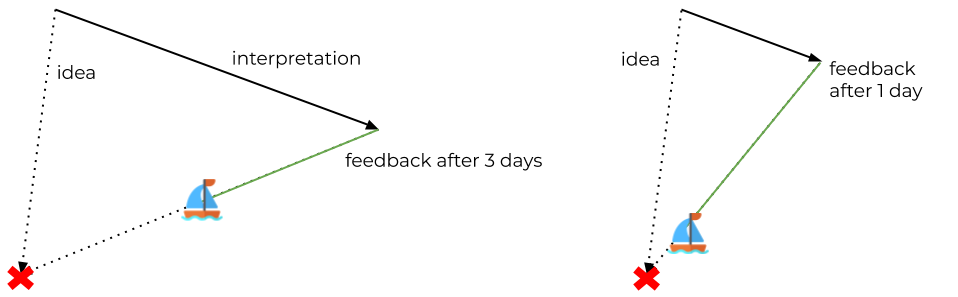
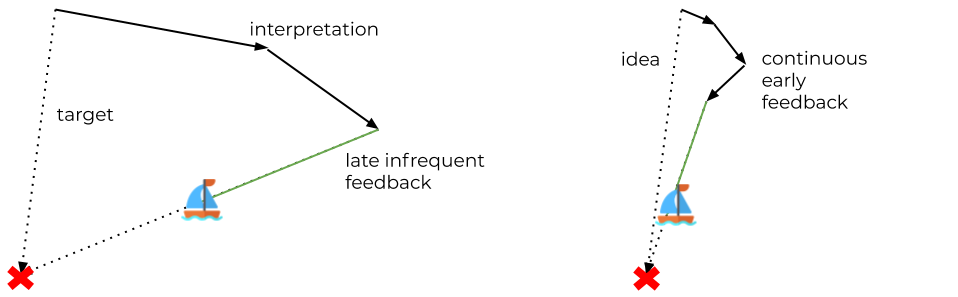
commit 2020_03_09_07_38_PM

diff --git a/index.html b/index.html
@@ -173,18 +173,18 @@
 
 <h1 id="my-opinion-on-successful-development">My Opinion on Successful Development</h1>
 <ul>
-<li>Automate tasks, make tasks foolproof. Relying on humans following processes is a recipe for failure.</li>
+<li>Automate processes. Developers are too valuable to perform repetitive tasks, and are error prone.</li>
 <li>Mistakes are a natural way to learn. Force mistakes to be made in isolation, fail fast, succeed faster.</li>
 <li>Add an automated test before fixing a bug. Only tested software can reliably change.</li>
-<li>Designs should be subject to change whenever software gets complicated, refactoring should become a routine.</li>
-<li>Estimates are <a href="https://www.google.com/search?q=%23noestimates">non-essential</a>. Prioritization over estimation. Beware for commitments to deadlines, it may kill simplicity and quality.</li>
-<li>Agile is a set of <a href="https://agilemanifesto.org/">values</a> and <a href="https://agilemanifesto.org/principles.html">principles</a>. To be agile is to do what works for you (the team). Methodologies, frameworks, or processes are non-essential.</li>
+<li>Designs should be subject to change if implementations get complicated, refactoring should become a routine.</li>
+<li>Estimates are <a href="https://www.google.com/search?q=%23noestimates">non-essential</a>. Prioritization is key. Deadlines may kill software quality.</li>
+<li>Agile is a set of <a href="https://agilemanifesto.org/">values</a> and <a href="https://agilemanifesto.org/principles.html">principles</a>. To be agile is to do what works for you (the team).</li>
 <li>Recording &ldquo;ways of working&rdquo; may discourage people from having open mindsets, and may lead to <a href="https://en.wikipedia.org/wiki/Cargo_cult_programming">cargo cult behavior</a>.</li>
-<li>Face-to-face team and business collaboration increases trust, team-play, and transparency.</li>
-<li>The shorter the development cycle, the quicker the feedback, the less time and money can be wasted on unwanted results.</li>
+<li>The shorter the development cycle, the quicker the feedback, the less time and money can be wasted on developing unwanted results.</li>
 </ul>
 <p><img src="/images/index/feedback.png#medium" alt=""></p>
 <ul>
+<li>Face-to-face team and business collaboration increases trust, team-play, and transparency.</li>
 <li>Don&rsquo;t repeat yourself - <a href="https://en.wikipedia.org/wiki/Don%27t_repeat_yourself">DRY</a>, unless you&rsquo;re introducing coupling between components that should not exist.</li>
 </ul>
 <h3 id="agile-values">Agile Values</h3>
